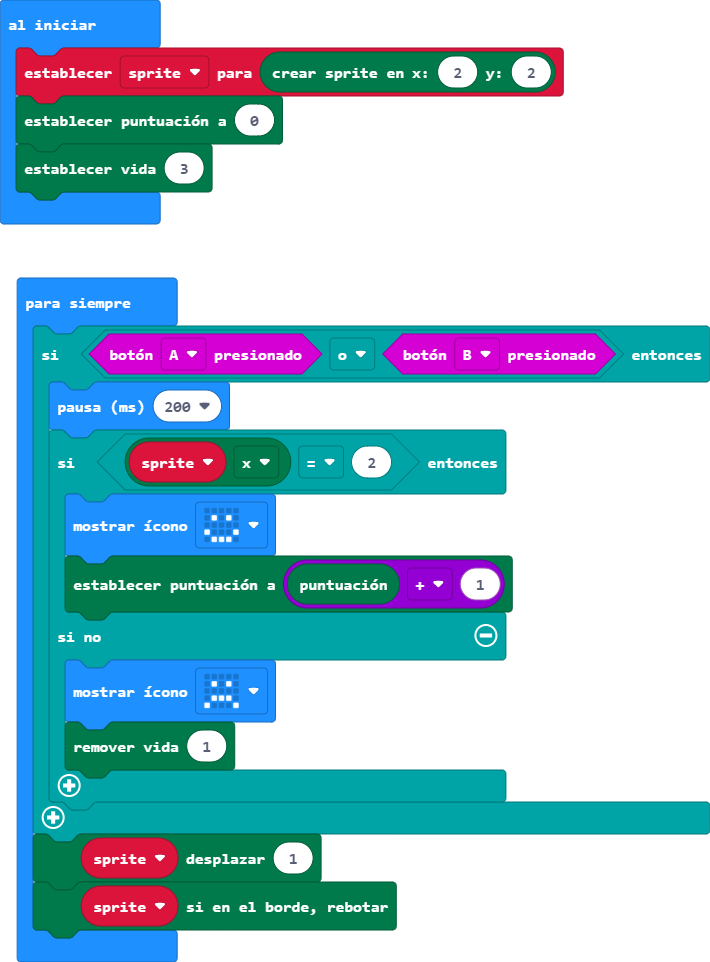
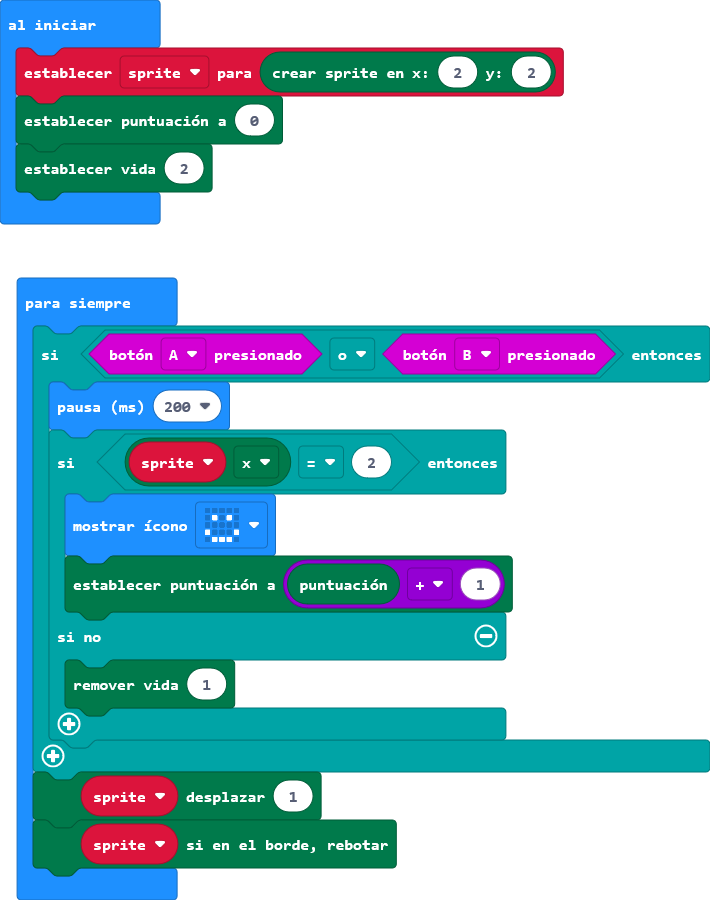
Actualizar main.blocks, main.ts

Changed region(s): [[0.0, 0.28, 1.0, 0.9956], [0.0, 0.0, 0.8056, 0.2489], [0.0, 0.0, 0.031, 0.0311]]

diff --git a/main.ts b/main.ts
@@ -1,6 +1,6 @@
 let sprite = game.createSprite(2, 2)
 game.setScore(0)
-game.setLife(3)
+game.setLife(2)
 basic.forever(function () {
     if (input.buttonIsPressed(Button.A) || input.buttonIsPressed(Button.B)) {
         basic.pause(200)
@@ -8,7 +8,6 @@ basic.forever(function () {
             basic.showIcon(IconNames.Happy)
             game.setScore(game.score() + 1)
         } else {
-            basic.showIcon(IconNames.Sad)
             game.removeLife(1)
         }
     }
